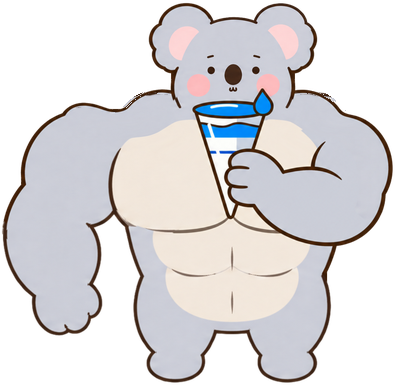
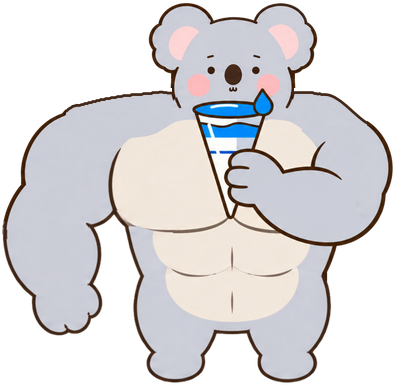
운동기록 프로토타입 v1.37.2 — 코아 Lv.99 먹는 중 프레임 어깨 윗선 잇기(디자인봇 nijim_koa99_eat_shoulder_20261110, eat2/koa/lv99/e_*.webp 21개 같은 크기 덮어쓰기·data.js crop 그대로) · VER v1.37.2(이미지 캐시키) · 되돌릴 곳 58730d5

Changed region(s): [[0.1823, 0.2182, 0.4557, 0.3117], [0.7291, 0.2182, 0.9114, 0.3117], [0.9114, 0.3117, 0.9418, 0.3429]]

diff --git a/app.js b/app.js
@@ -2,7 +2,7 @@
 /* v1.12 — v1.11(C안 1/4 고객 앱 기록 흐름 전부) + 결정 33: 아이템 경험치는 한도 없음(운동 경험치만 하루 600·주 1,800).
    경험치·레벨·표정·랭킹 계산은 engine.js 한 곳(CFG·sessionXP·capGain·applyXP·judgeIntensity·exprFor·forecastWeek). 이 파일은 화면만 */
 const KEY = 'nijim_workout_proto_v111';
-const VER = 'v1.37.1';
+const VER = 'v1.37.2';
 /* 확정 12종(결정 22~25) — design v13 정본 · 레벨 띠 11컷 · 표정 5종. 12종 모두 처음부터 선택 가능(결정 25) */
 const CH = {
   mungchi:   { name: '뭉치', josa: '가', intro: '느긋하고 솔직한 땀방울 슬라임' },
